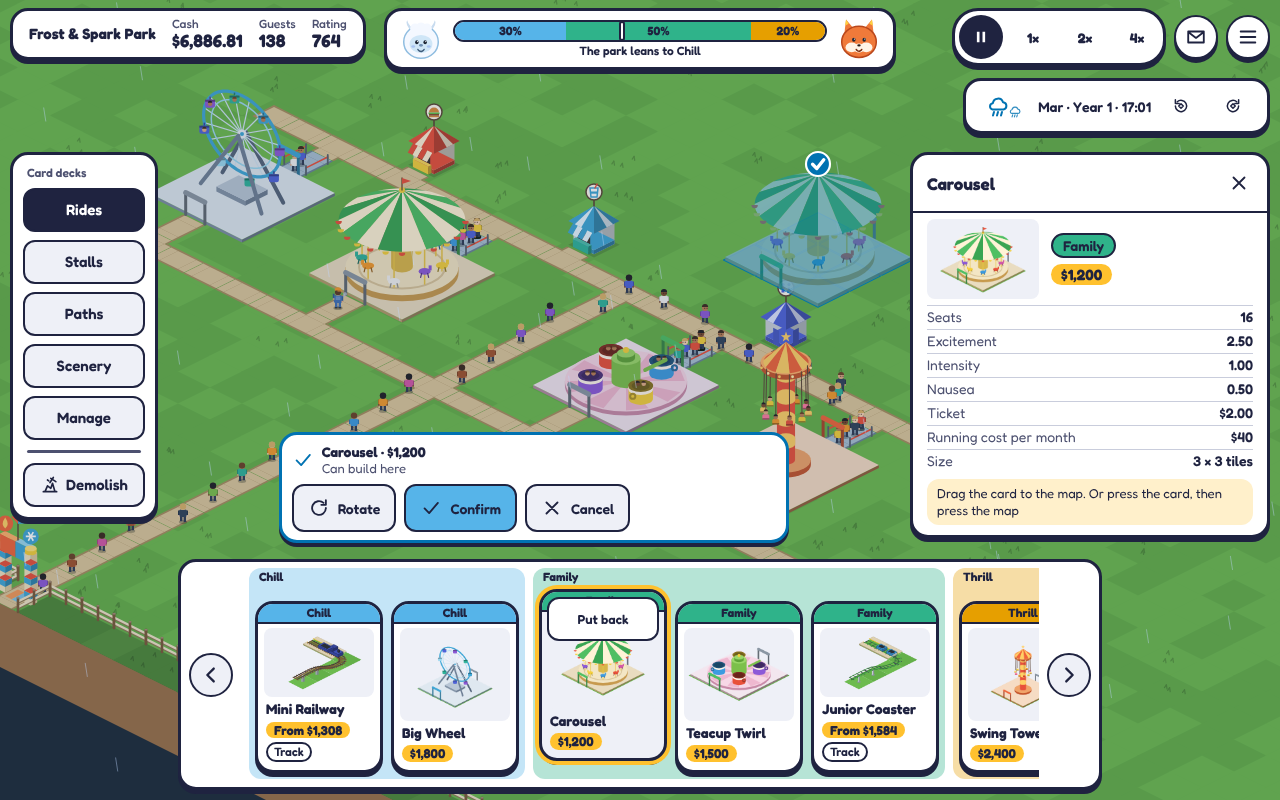
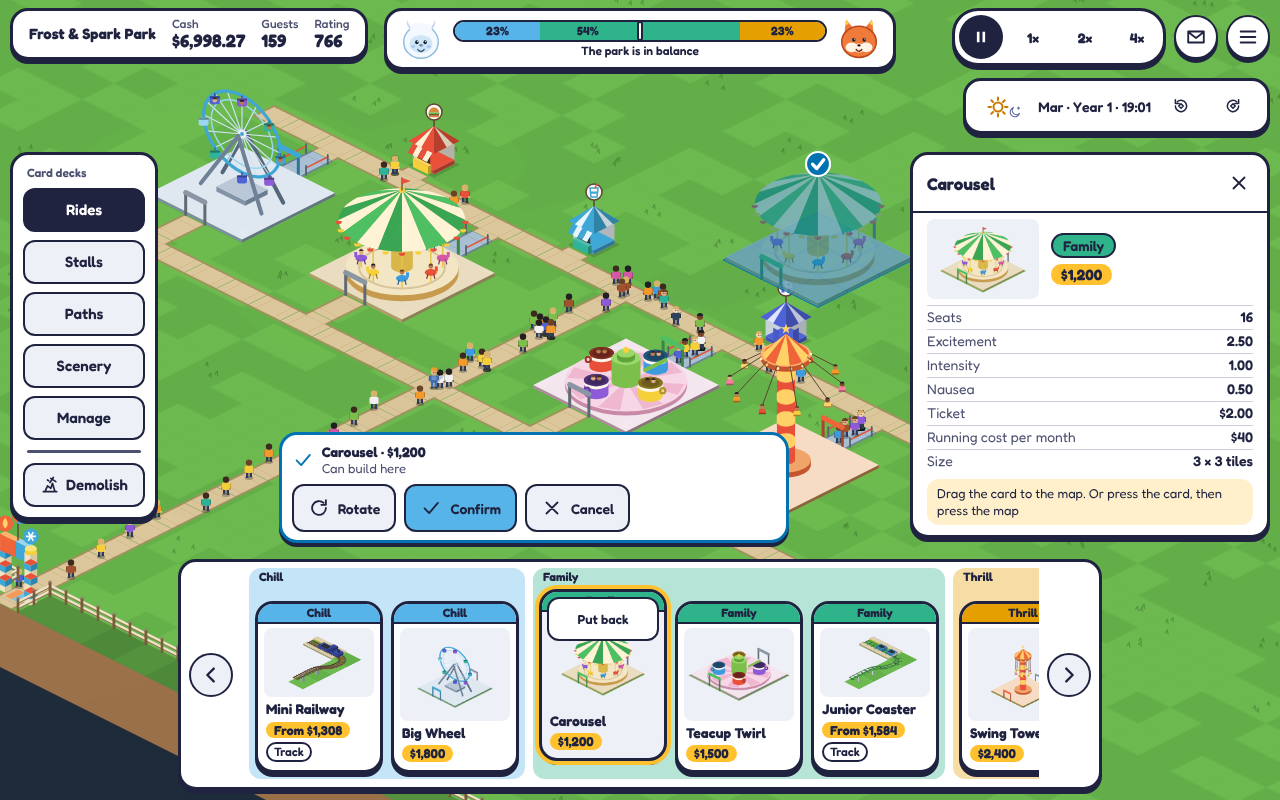
fix(ui): mood bar label moves by transform so the segments keep the guest mix in proportion
The percentage beside the knot was moved with padding on the flex segment, which
added to its flex share and distorted the bar (30/40/30 drew as 23.5/53/23.5).
It is now an inner span shifted with translateX. New e2e check at 30/40/30;
owner screenshots retaken.

Claude-Session: https://claude.ai/code/session_01Q5pHggx1eLkEH7W16KJFwP

diff --git a/tests/e2e/interface.spec.ts b/tests/e2e/interface.spec.ts
@@ -50,6 +50,46 @@ test('the mood bar and the weather button have a name before the first frame', a
   await expect(page.getByTestId('hud-weather')).toHaveAttribute('aria-label', /^Weather: \S/);
 });
 
+test('at 30/40/30 the mood bar segments keep the guest mix in proportion while a percentage moves beside the knot', async ({ page }) => {
+  await newPark(page);
+  await page.evaluate(() => {
+    const g = (window as unknown as { __tc: { paused: boolean; world: { state: { map: { content: ArrayLike<number> }; guests: unknown[]; nextId: number } } } }).__tc;
+    const s = g.world.state;
+    let tile = 0;
+    for (let i = 0; i < s.map.content.length; i++) if (s.map.content[i] === 1) { tile = i; break; }
+    // 3 Chill, 4 Family, 3 Thrill: 30/40/30, the knot at 50% lies on the Family percentage.
+    for (const temperament of [20, 20, 20, 50, 50, 50, 50, 80, 80, 80]) {
+      const id = s.nextId++;
+      s.guests.push({
+        id, tile, z: 8, wetUntilTick: -1, nextTile: -1, progress: 0, dir: 0, lane: id % 4, state: 'walking', stateTicks: 0, target: null,
+        cash: 8000, needs: { hunger: 40, thirst: 40, bladder: 20, energy: 230, happiness: 180, nausea: 0 },
+        temperament, thoughts: [], thoughtCooldowns: {}, ridden: {}, spent: 0,
+        items: { map: false, umbrella: false, balloon: false }, nextDecisionTick: 1e9, lostSinceTick: -1,
+        noRideStreak: 0, seat: null, activityId: -1, trashTimer: 0, withdrawals: 0, lostSteps: 0, bestDistance: -1, lostTarget: null,
+      });
+    }
+  });
+  const bar = page.getByTestId('hud-balance');
+  await expect(bar).toHaveAttribute('aria-label', /30% Chill/);
+  const m = await page.evaluate(() => {
+    const track = document.querySelector('.mood-track') as HTMLElement;
+    const inner = track.clientWidth;
+    const segs = [...track.querySelectorAll<HTMLElement>('.seg')].map((s) => s.getBoundingClientRect());
+    const knot = (track.querySelector('.mood-knot') as HTMLElement).getBoundingClientRect();
+    const family = track.querySelector('.seg-family') as HTMLElement;
+    const r = document.createRange();
+    r.selectNodeContents(family);
+    const text = r.getBoundingClientRect();
+    return { inner, widths: segs.map((s) => s.width), familyEdge: segs[1]!.left, knotLeft: knot.left, knotRight: knot.right, text: { left: text.left, right: text.right }, label: family.textContent };
+  });
+  expect(m.label).toBe('40%');
+  expect(Math.abs(m.widths[0]! - 0.3 * m.inner)).toBeLessThanOrEqual(1);
+  expect(Math.abs(m.widths[1]! - 0.4 * m.inner)).toBeLessThanOrEqual(1);
+  expect(Math.abs(m.widths[2]! - 0.3 * m.inner)).toBeLessThanOrEqual(1);
+  // The knot sits at the middle (50%), and the Family percentage is clear of it.
+  expect(m.text.right <= m.knotLeft || m.text.left >= m.knotRight).toBe(true);
+});
+
 /**
  * Controls of the top region, the deck list, and the hand that are smaller than 44 × 44 px or closer than 8 px to
  * another control, and text that its own box cuts off (spec §4.10, Phase 6 §4.7).

diff --git a/src/ui/mood/moodBar.ts b/src/ui/mood/moodBar.ts
@@ -41,13 +41,15 @@ export function createMoodBar(ctx: UiContext): UiPart {
     sparkSlot,
   );
 
+  // The percentage is an inner span: moving it beside the knot must not change the segment's width (§4.3).
   const segs = [
-    { el: segChill, key: 'chill' },
-    { el: segFamily, key: 'family' },
-    { el: segThrill, key: 'thrill' },
+    { el: segChill, num: h('span', { class: 'seg-num' }), key: 'chill' },
+    { el: segFamily, num: h('span', { class: 'seg-num' }), key: 'family' },
+    { el: segThrill, num: h('span', { class: 'seg-num' }), key: 'thrill' },
   ] as const;
-  /** The padding each segment has now (written only when it changes). */
-  const pads = ['', '', ''];
+  for (const s of segs) s.el.append(s.num);
+  /** The shift each percentage has now (written only when it changes). */
+  const shifts = ['', '', ''];
 
   // A portrait is drawn again only when its mood or its size changes.
   const drawn = { frost: '', spark: '' };
@@ -95,11 +97,13 @@ export function createMoodBar(ctx: UiContext): UiPart {
         if (s.el.style.flexGrow !== grow) s.el.style.flexGrow = grow;
         // The percentage keeps clear of the knot (it moves to the larger part of its segment beside the knot).
         const label = segmentLabel(p, s.key, width);
-        setText(s.el, label.show ? `${v}%` : '');
-        const pad = label.show && (label.padStart > 0 || label.padEnd > 0) ? `0 ${Math.round(label.padEnd)}px 0 ${Math.round(label.padStart)}px` : '';
-        if (pads[i] !== pad) {
-          pads[i] = pad;
-          s.el.style.padding = pad;
+        setText(s.num, label.show ? `${v}%` : '');
+        // Centred in the room left by padStart / padEnd: a shift by half their difference, with no change of layout size.
+        const dx = label.show ? Math.round((label.padStart - label.padEnd) / 2) : 0;
+        const shift = dx !== 0 ? `translateX(${dx}px)` : '';
+        if (shifts[i] !== shift) {
+          shifts[i] = shift;
+          s.num.style.transform = shift;
         }
       });
       toggleClass(el, 'empty', shares.total === 0);

diff --git a/src/styles/main.css b/src/styles/main.css
@@ -136,6 +136,7 @@ button { font: inherit; color: inherit; }
 .mood-middle { display: flex; flex: 1 1 0; flex-direction: column; gap: 2px; min-width: 0; }
 .mood-track { position: relative; display: flex; height: 22px; border-radius: 11px; overflow: hidden; background: var(--surface-2); border: var(--control-outline); }
 .mood-track .seg { display: flex; align-items: center; justify-content: center; flex-basis: 0; flex-grow: 0; min-width: 0; overflow: hidden; font-style: normal; font-weight: 700; color: var(--ink); white-space: nowrap; }
+.mood-track .seg-num { display: inline-block; flex: none; }
 .mood-knot { position: absolute; top: -1px; bottom: -1px; width: 6px; margin-left: -3px; border-radius: 3px; background: var(--surface); border: 2px solid var(--ink); box-sizing: border-box; transition: left 0.4s ease; pointer-events: none; }
 .mood-text { display: block; text-align: center; font-weight: 600; line-height: 1.2; white-space: normal; }
 .tc-rm .mood-knot { transition: none; }
